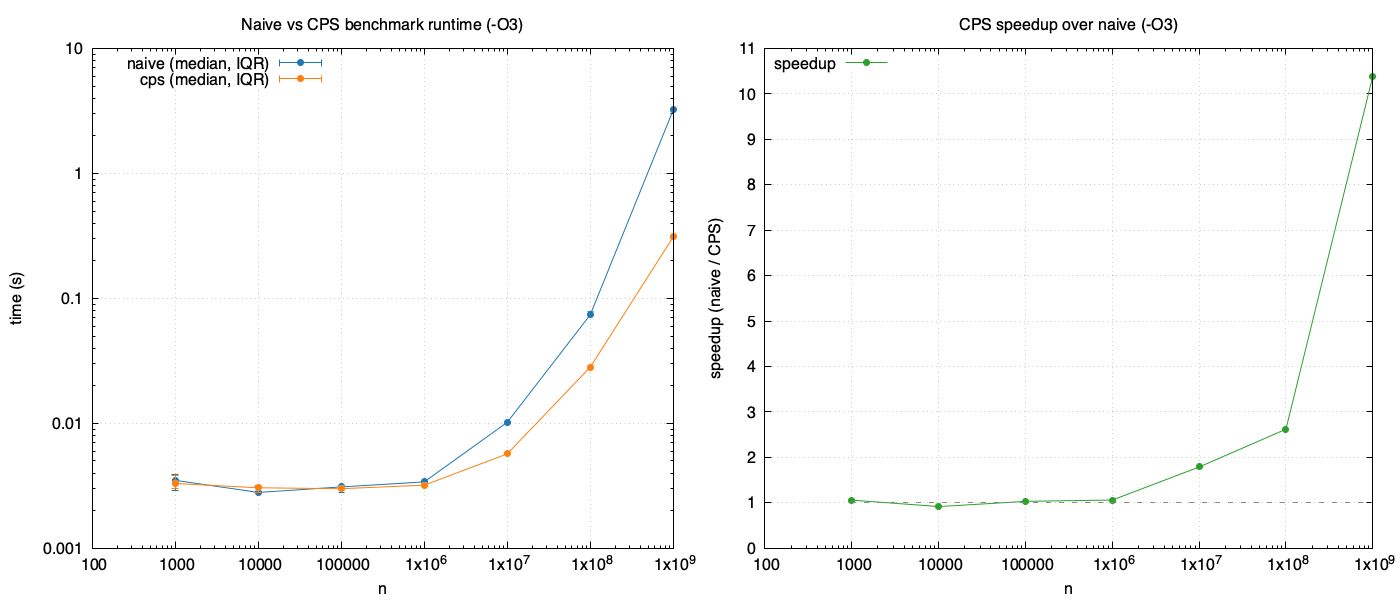
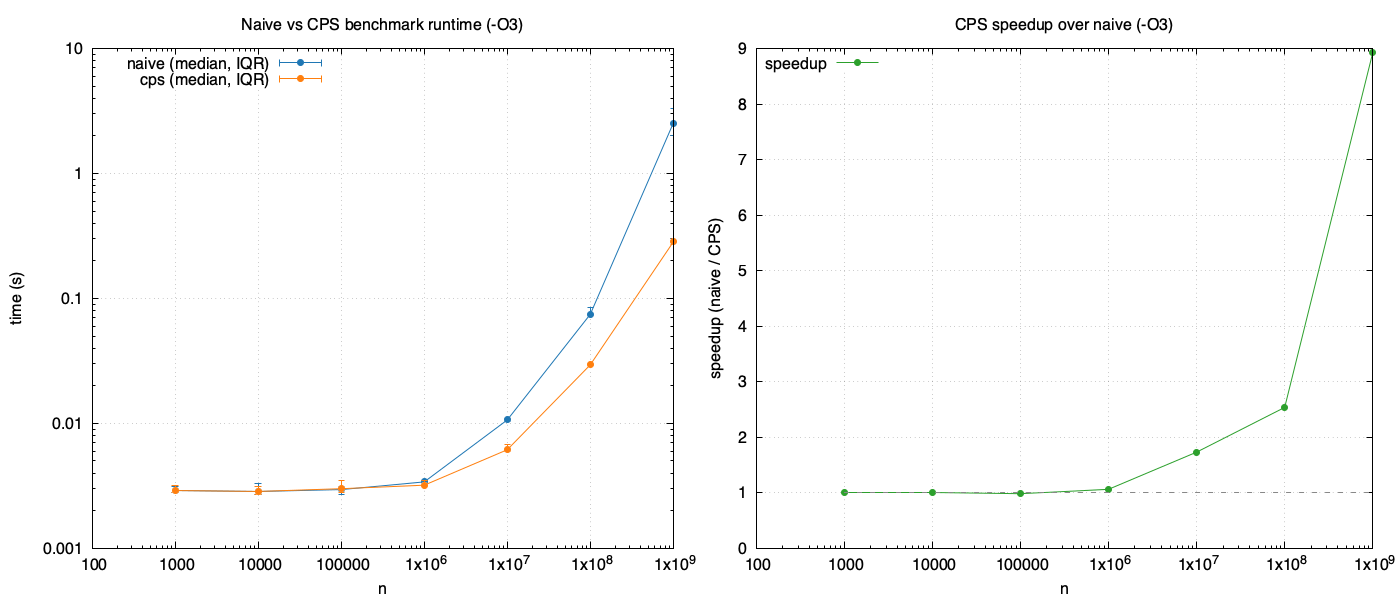
python benchmark

diff --git a/cps.py b/cps.py
@@ -1,4 +1,5 @@
 import numpy as np
+import argparse
 
 N = 100
 
@@ -18,7 +19,8 @@ def dbl(op):
 
 
 def prt(x):
-    print(f"{x}, ", end="")
+    ##print(f"{x}, ", end="")
+    pass
 
 
 def scan(xs: list[int]):
@@ -32,11 +34,19 @@ def scan(xs: list[int]):
     return scn_inner
 
 
+def _parse_args():
+    parser = argparse.ArgumentParser(prog="cps.py", description="CPS implementation")
+
+    parser.add_argument("-n", default=N, type=int, help="array size")
+    parser.add_argument("-d", default=0, type=int, help="default value for the array")
+
+    args = parser.parse_args()
+    return args
+
+
 if __name__ == "__main__":
-    xs = [4, 4, 4, 4]
-    # inc(scan(xs), prt)
-    # dbl(inc(scan(xs)), prt)
-    # scan(xs)(prt)
-    inc(scan(xs))(prt)
-    # dbl(inc(scan(xs)))(prt)
+    args = _parse_args()
+    xs = [int(args.d)] * args.n
+
+    dbl(inc(dbl(inc(scan(xs)))))(prt)
     print("")

diff --git a/naive.py b/naive.py
@@ -1,4 +1,5 @@
 import numpy as np
+import argparse
 
 N = 100
 
@@ -19,11 +20,27 @@ def dbl(xs: list[int]):
 
 def prt(xs: list[int]):
     for x in xs:
-        print(f"{x}, ", end="")
+        continue
+        # print(f"{x}, ", end="")
     print("")
 
 
+def _parse_args():
+    parser = argparse.ArgumentParser(
+        prog="naive.py", description="Naive implementation"
+    )
+
+    parser.add_argument("-n", default=N, type=int, help="array size")
+    parser.add_argument("-d", default=0, type=int, help="default value for the array")
+
+    args = parser.parse_args()
+    return args
+
+
 if __name__ == "__main__":
+    args = _parse_args()
+    xs = [int(args.d)] * args.n
+
     xs = np.zeros(N, dtype=int)
     xs = inc(xs)
     xs = dbl(xs)

diff --git a/README.md b/README.md
@@ -304,11 +304,13 @@ This section describes the evaluation setup and measurements used. Then it discu
 
 All benchmarks were run on an Apple MacBook Pro equipped with an Apple M4 chip (10 cores: 4 performance + 6 efficiency) and 16 GB of unified memory, running macOS 26.5.2 (Darwin 25.5.0, arm64). Programs were compiled with Apple clang 21.0.0 (based on LLVM). Each configuration was repeated 10 times, and wall-clock time was measured via shell timing around the process invocation. The code was run with $N = \left\{ 10^3, 10^4, 10^5, 10^6, 10^7, 10^8, 10^9 \right\}$ specifying the size of the array. The different compile optimizations `-O0`, `-O1`, `-O2`, and `-O3` were compared separately. The called CPS (or naive) chain is `dbl(inc(dbl(inc(scan(xs)))))(prt);`.
 
+Note that there is a `prt()` function that is supposed to print the value `x`, which has been left empty for the evaluations. The runtime should not be influenced by I/O printing.
+
 ### Evaluation Measures
 
 Runtime is the main measurement used. The compiled binaries were run with the `time` command, and the output for `real` (wall clock time) is used as the time value to compare the results. It was repreated 10 times of which the median and IQR are reported.
 
-Only the runtime for C++ code was analyzed. Because I do not expect the Python CPS version to be faster than the Naive due to the fact that it's interpreted. TODO: check this claim.
+C++ code and the Python implementation was analyzed.
 
 The functions `inc` and `dbl` were chosen, since the difference in runtime for naive and CPS version is expected to show even here. The runtime is not expected to be dependent on the complexity of the functions applied, but dependent on how many loops over the array is executed.
 
@@ -325,6 +327,10 @@ The functions `inc` and `dbl` were chosen, since the difference in runtime for n
 ![Runtime and speedup for `-O2`](./data/benchmark_line_o2.png)
 
 ![Runtime and speedup for `-O3`](./data/benchmark_line_o3.png)
+
+**Python**: The runtime for the Python implementation shows that the interpreted language is not able to do CPS efficiently. The overhead of the continued and nested function calls dominates the runtime.
+
+![Runtime and speedup for Python](./data/benchmark_line_py.png)
 
 ### Summary of Evaluations
 
